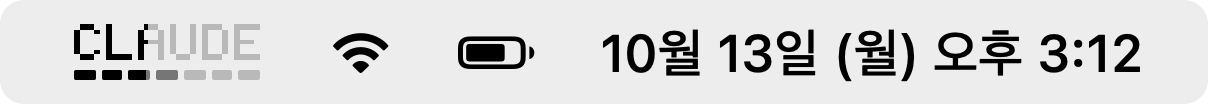
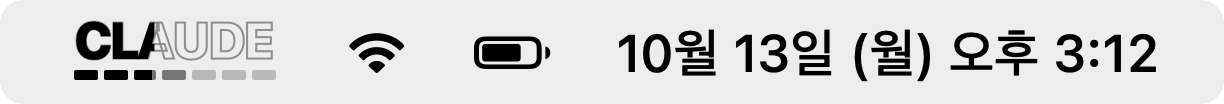
README 첫 이미지를 기본 글꼴로

diff --git a/Sources/Hando/App/CLI/PreviewExporter.swift b/Sources/Hando/App/CLI/PreviewExporter.swift
@@ -20,12 +20,13 @@ enum PreviewExporter {
         try? FileManager.default.createDirectory(at: dir, withIntermediateDirectories: true)
 
         let now = Date()
-        let pixel = TextGaugeStyle(typeface: PixelTypeface())
+        let intro = TextGaugeStyle(typeface: FontTypeface.system)   // README 맨 위: 처음 보는 사람한테 익숙한 기본 글꼴
+        let pixel = TextGaugeStyle(typeface: PixelTypeface())        // 꾸미기 움짤: 개성 보여주기
         let claude = MenuBarState(label: "CLAUDE", sessionUsed: 0.4, weeklyUsed: 0.4, status: .normal, weeklyAllowance: 4.0 / 7)
         let codex = MenuBarState(label: "CODEX", sessionUsed: 0.65, weeklyUsed: 0.3, status: .normal)
 
-        save(menuBar(pixel.image(for: claude), palette: light), dir, "menubar-claude")
-        save(menuBar(pixel.image(for: codex), palette: light), dir, "menubar-codex")
+        save(menuBar(intro.image(for: claude), palette: light), dir, "menubar-claude")
+        save(menuBar(intro.image(for: codex), palette: light), dir, "menubar-codex")
 
         let full = MenuBarState(label: "CLAUDE", sessionUsed: 1, weeklyUsed: 0.6, status: .normal, lockedUntil: now + 3600)
         let states: [(MenuBarState, String)] = [
@@ -34,7 +35,7 @@ enum PreviewExporter {
             (full, "다 씀"),
             (.init(label: "CLAUDE", sessionUsed: nil, weeklyUsed: nil, status: .error), "로그인 필요"),
         ]
-        save(row(states.map { (pixel.image(for: $0.0), $0.1) }, palette: light), dir, "states")
+        save(row(states.map { (intro.image(for: $0.0), $0.1) }, palette: light), dir, "states")
 
         let typefaces = TypefaceCatalog.all.map { (TextGaugeStyle(typeface: $0).image(for: claude), $0.name) }
         save(row(typefaces, palette: light), dir, "typefaces")

diff --git a/README.md b/README.md
@@ -2,12 +2,12 @@
 
 AI 쓸 때 Claude / Codex 한도를 상시 확인하고 싶어서 만든 메뉴바 앱
 
-<img src="assets/menubar-claude.png" width="604" alt="Claude">
-<img src="assets/menubar-codex.png" width="588" alt="Codex">
+<img src="assets/menubar-claude.png" width="612" alt="Claude">
+<img src="assets/menubar-codex.png" width="598" alt="Codex">
 
 글자는 5시간, 아래 잔디는 주간 사용량. 쓸수록 채워지고, 다 쓰면 몇 초마다 글자가 움직임
 
-<img src="assets/states.png" width="608" alt="상태">
+<img src="assets/states.png" width="640" alt="상태">
 
 ## 꾸미기
 
